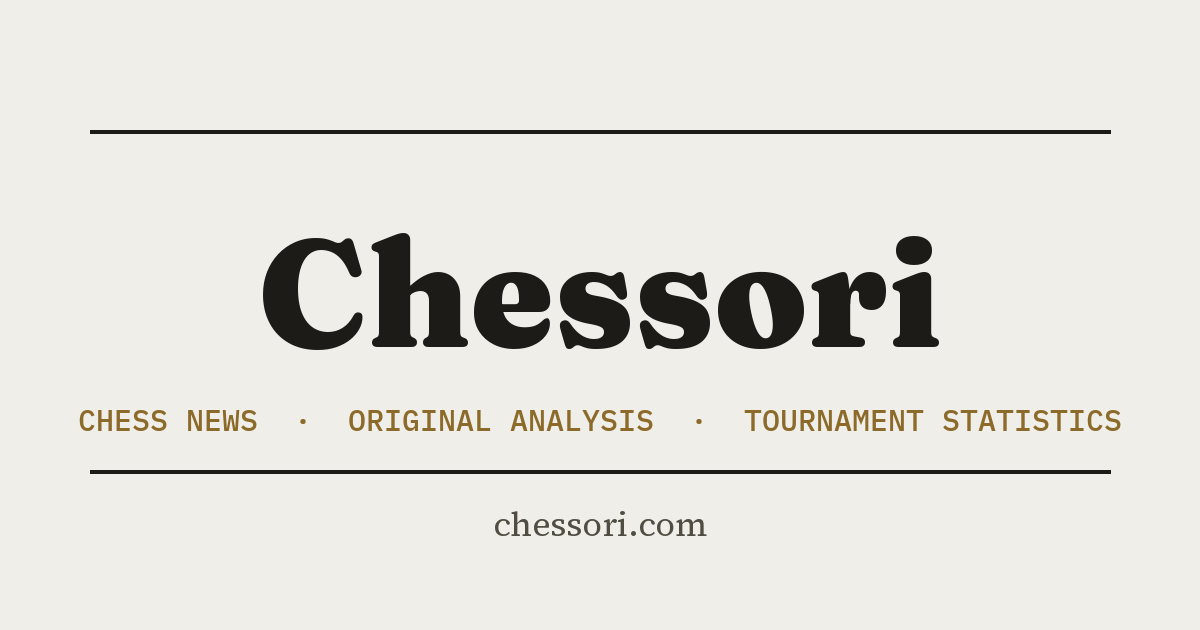
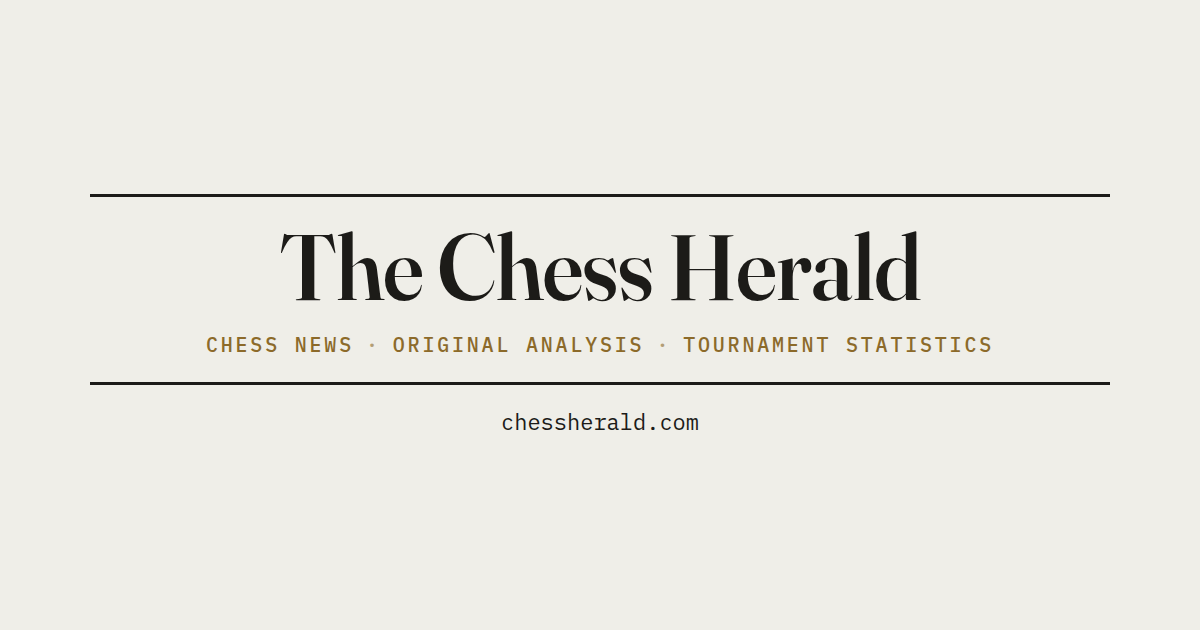
Promote brand name to "The Chess Herald", regenerate og-image
Second opinion (both mine and an external one) favored the full
newspaper-convention name over the bare "Chess Herald" from the
previous commit -- "The X Herald/Times/Post" is the dominant pattern
for signaling "this is a serious news outlet," which matters more for
this site than handle brevity. Domain stays chessherald.com regardless
(dropping "the" from the URL is completely normal for "The X"
publications) -- thechessherald.com is separately confirmed available
too, so the shorter domain was a free choice, not a constraint.

Promoted every formal brand mention (masthead, meta tags, JSON-LD,
RSS title, page titles, about/contact/privacy copy, the drafting
prompt's own references to itself) from "Chess Herald" to "The Chess
Herald". Verified visually: the full name fits the masthead's serif
wordmark cleanly at full site width with no overflow.

Regenerated og-image.png with the new wordmark (same design system,
just the text swap + a size reduction to keep it fitting the layout).
The favicon and social profile picture (a pawn silhouette) needed no
changes -- neither ever had brand text on them.

Claude-Session: https://claude.ai/code/session_014KWZcGhxSde4yF4KSjkKcG

diff --git a/src/pages/rss.xml.js b/src/pages/rss.xml.js
@@ -13,7 +13,7 @@ export async function GET(context) {
     // and gets flagged by feed validators. dc:creator is the element actually
     // meant for a display name, and is what readers look for.
     xmlns: { dc: 'http://purl.org/dc/elements/1.1/' },
-    title: 'Chess Herald',
+    title: 'The Chess Herald',
     description:
       'Curated chess news from around the world, with original analysis and tournament statistics. Every story linked back to its source.',
     site: context.site,

diff --git a/src/lib/seoTitle.ts b/src/lib/seoTitle.ts
@@ -4,7 +4,7 @@
 // title tags past ~70 characters, and search consoles flag it. Rather than
 // shortening the real headline, give the <title> tag its own, possibly
 // truncated, version with the site name appended.
-const SITE_SUFFIX = ' | Chess Herald';
+const SITE_SUFFIX = ' | The Chess Herald';
 const MAX_LENGTH = 70;
 
 export function seoTitle(pageTitle: string): string {

diff --git a/scripts/draft.py b/scripts/draft.py
@@ -273,15 +273,15 @@ Markdown link, with the anchor text being the fact or result itself (e.g. \
 the visible text. Once is enough; the site prints the source again at the foot of \
 every piece.
 
-2. Where the user turn lists previously published Chess Herald articles, link one or \
+2. Where the user turn lists previously published The Chess Herald articles, link one or \
 two of them from a phrase in your own text that genuinely refers to what that \
 article covers -- a player, event, tournament or theme you are already \
 mentioning. Use the "/articles/<slug>/" path exactly as given, and make the \
 anchor a natural noun phrase already in the sentence rather than bolting on \
-"as we reported" or "read more about". If you mention that Chess Herald has \
+"as we reported" or "read more about". If you mention that The Chess Herald has \
 covered something before, that mention MUST itself be the Markdown link -- \
 never describe or gesture at a previous piece in prose ("as covered in \
-Chess Herald's look at...") without the "[...](/articles/<slug>/)" markup actually \
+The Chess Herald's look at...") without the "[...](/articles/<slug>/)" markup actually \
 wrapped around it; an unlinked reference to a specific past article reads as a \
 broken or fabricated citation. Do not reword a sentence just to create a link, \
 do not link the same article twice, and if none of the listed pieces is \
@@ -361,7 +361,7 @@ gap in what this data covers to the tournaments themselves.
 
 {STYLE_GUIDE}
 
-LINKING TO THE COMPANION PIECE. Where the user turn lists earlier Chess Herald \
+LINKING TO THE COMPANION PIECE. Where the user turn lists earlier The Chess Herald \
 calendar pieces for this same continent, link the most recent one exactly once, \
 using the "/articles/<slug>/" path exactly as given. Each is labelled \
 (retrospective) or (preview) -- these pieces come in pairs, one of each per \
@@ -485,7 +485,7 @@ def build_user_prompt(item: dict) -> str:
         if companions:
             parts.append("")
             parts.append(
-                "Earlier Chess Herald calendar pieces covering this same continent, newest "
+                "Earlier The Chess Herald calendar pieces covering this same continent, newest "
                 "first. Link the most recent one once, per the linking rule in your "
                 "instructions:"
             )
@@ -508,7 +508,7 @@ def build_user_prompt(item: dict) -> str:
     if previous:
         parts.append("")
         parts.append(
-            "Previously published Chess Herald articles you may link to (see the linking "
+            "Previously published The Chess Herald articles you may link to (see the linking "
             "rules in your instructions). Link one only where it genuinely helps the "
             "reader; skip them all if nothing here is actually related:"
         )
